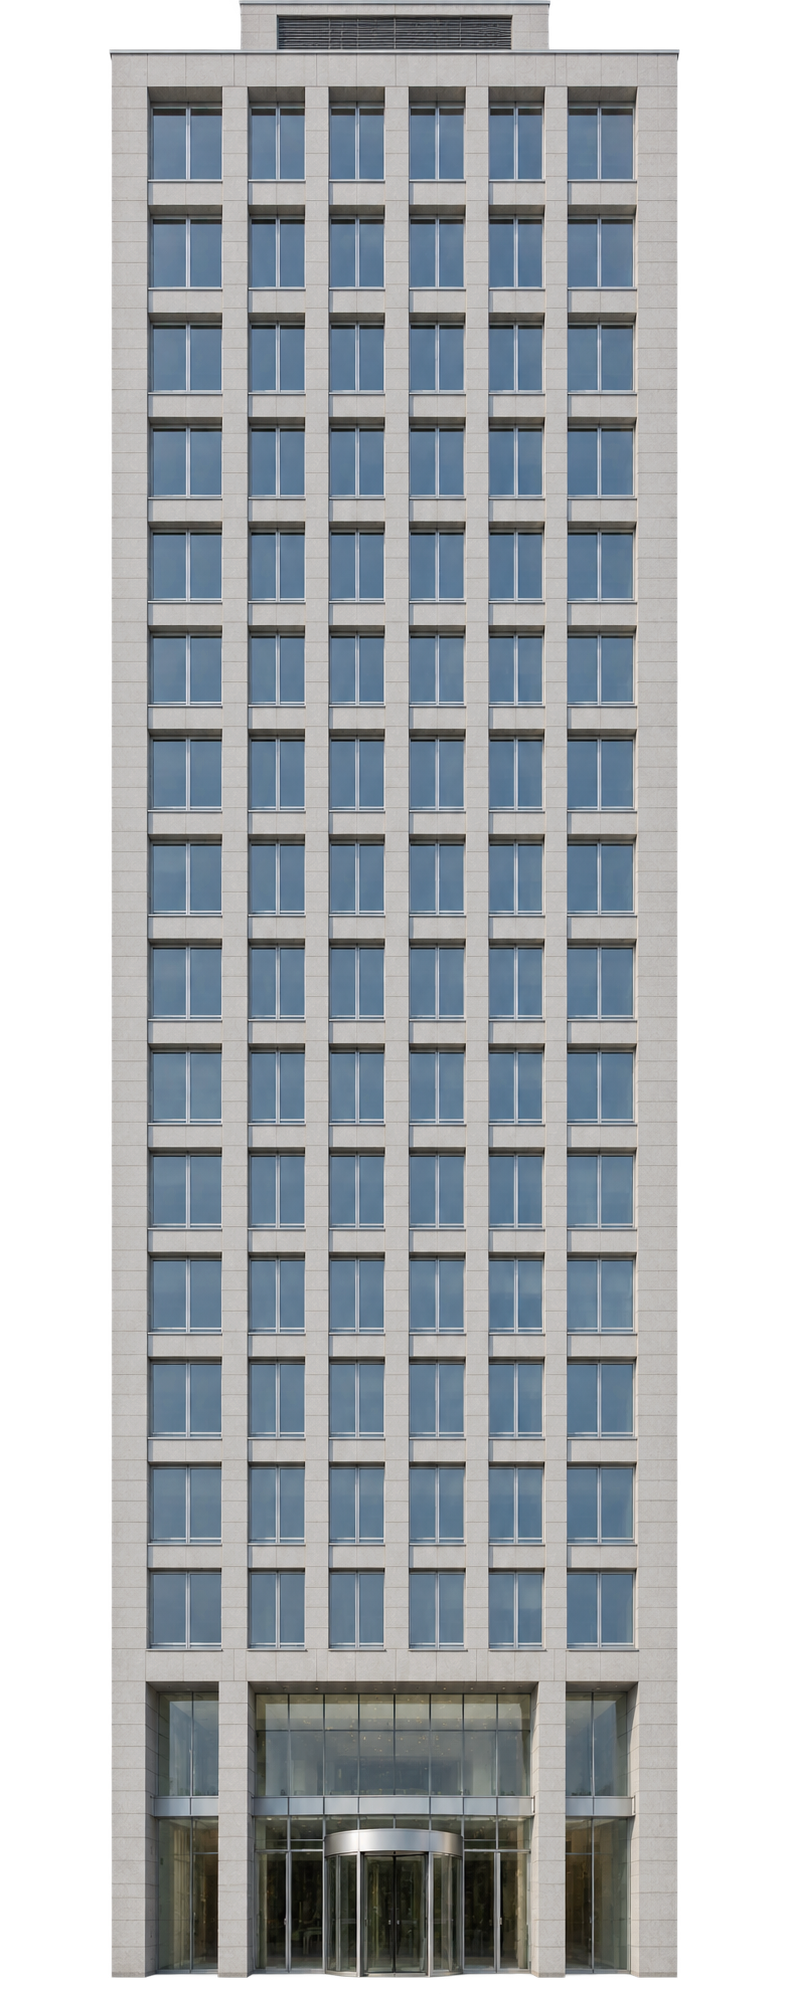
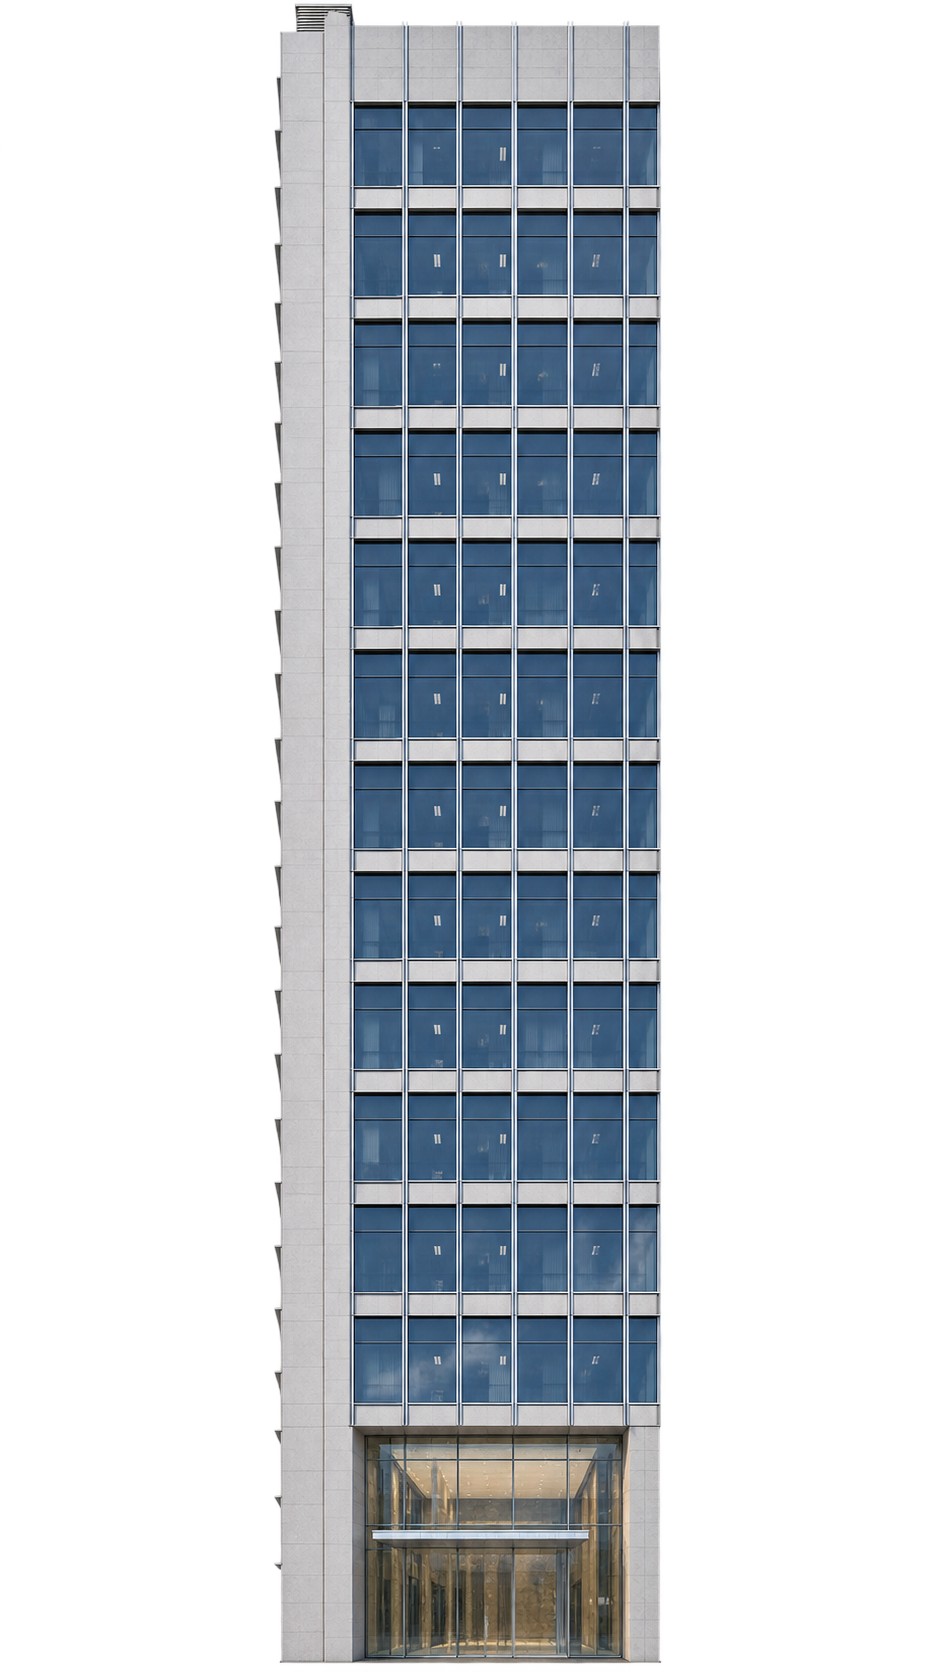
算命攤桌子定案 + 周邊裝飾(火把/大樹/灌木/盆栽/機車)。
kc 拉滑桿定案桌寬 3.45/桌深 2.95/桌高 2.20,寫進 FORTUNE_STALL 預設值,
神棍站位(FORTUNE.z)跟著新桌深重算,不會卡進桌子。kc:「附近能不能多加
一些裝飾,火把或啥的裝神弄鬼,也可以放一些大樹植物機車都可以」——加了
兩支發光火把(新道具)+ buildTree/bushLine/addProp/parkMoto 呼叫既有
函式湊出角落的樹/灌木/盆栽/機車,沒有新蓋系統。純視覺,玩法/劇情沒動。

Claude-Session: https://claude.ai/code/session_0178r68aH2gnAjBGiLuzEchG

diff --git a/prototypes/lib/scene-city3d.js b/prototypes/lib/scene-city3d.js
@@ -1133,7 +1133,7 @@ export function buildCity(THREE, scene){
     const TOWERS = [
       { x:-58, w:18, file:'office-tower-1.png', color:0x8a97a0 },   // 西側,學校西邊到街區邊界那段——深藍灰玻璃帷幕。側面(整棟樓風格)還沒生,先素色佔位
       { x:-16, w:14, file:'office-tower-2.png', sideFile:'office-tower-2-side.png?v=2', color:0xb08858 },   // 學校跟火車站中間,只有 16 寬的窄縫,樓也窄一點——古銅色帷幕,側面 v2(2026-08-26,kc:「他是大樓二」,原本以為 v2 那張是大樓一,修正)
-      { x:28,  w:18, file:'office-tower-3.png', sideFile:'office-tower-3-side.png', color:0xc8c4ba }    // 火車站跟小美哥站位(x≈48)中間——淺灰石材,正面圖還沒生,先素色佔位,側面已經有
+      { x:28,  w:18, file:'office-tower-3.png', sideFile:'office-tower-3-side.png', color:0xc8c4ba }    // 火車站跟小美哥站位(x≈48)中間——淺灰石材,正面圖 2026-08-27 補上(kc 拿側面圖當參考生的,樓層對齊)
     ];
     TOWERS.forEach(cfg => {
       const h = 50, w = cfg.w, d = DEPTH;
@@ -2072,7 +2072,9 @@ export function buildCity(THREE, scene){
      再猜一輪,直接把尺寸(w/d/legH)暴露給 game.html 的滑桿面板即時改,
      kc 自己拉到滿意為止。整組(桌面+四腳+籤筒+籤)重蓋比另外算縮放/
      位移代數簡單,一律先清掉舊 mesh 再照最新尺寸重畫一次。 */
-  const FORTUNE_STALL = { x:-50, z:-96, w:1.8, d:1.0, legH:1.5 };
+  /* 最終尺寸(2026-08-27)——kc 自己拉滑桿拉到桌寬 3.45/桌深 2.95/桌高
+     2.20 定案,寫死進預設值,滑桿還留著(方便之後想再調)。 */
+  const FORTUNE_STALL = { x:-50, z:-96, w:3.45, d:2.95, legH:2.2 };
   const fortuneStallCollider = { x:FORTUNE_STALL.x, z:FORTUNE_STALL.z, hw:1.0, hd:1.6 };
   colliders.push(fortuneStallCollider);
   landmarks.push({ x:FORTUNE_STALL.x, y:FORTUNE_STALL.legH+.6, z:FORTUNE_STALL.z, text:'算命攤' });
@@ -2102,6 +2104,26 @@ export function buildCity(THREE, scene){
     fortuneStallCollider.hd = d/2 + 1.1;
   }
   buildFortuneStall();
+  /* 算命攤周邊裝飾(2026-08-27,kc:「附近能不能多加一些裝飾,火把或啥的
+     裝神弄鬼,也可以放一些大樹植物機車都可以」)——火把是新的簡單發光
+     道具(木桿+發光多面體火焰,跟供桌香爐那顆發光小方塊同一招,不用
+     找素材);大樹/灌木/盆栽/機車全部直接呼叫既有函式(buildTree/
+     bushLine/addProp/parkMoto),沒有另外蓋系統。位置貼著西牆那一側,
+     圍出「算命攤自己的角落」,跟鴨頭/乾麵那排的熱鬧感區隔開。 */
+  function mysticTorch(x, z){
+    add(new THREE.Mesh(new THREE.CylinderGeometry(.05,.07,1.8,8),
+        std({ color:0x3a2a1a, roughness:.9 })), x, .9, z, true, false);
+    add(new THREE.Mesh(new THREE.IcosahedronGeometry(.22,0),
+        glow(0xff7a2a,1.8)), x, 1.95, z, false, false);
+    lampSpots.push({ x, y:2.0, z, c:0xff8a3a, i:20, r:14 });
+  }
+  [[-52.3,-95.3],[-47.7,-95.3]].forEach(([tx,tz]) => mysticTorch(tx,tz));
+  buildTree(-57, -99, 1.4, 2);
+  bushLine(-59, -91, -59, -104);
+  addProp('planter', -47, -99.5, 1.0, 1.3, 0x3c5a2e);
+  /* 機車(parkMoto)要等下面 `const motos = []` 先跑過(TDZ,const 不像
+     function 宣告會被 hoist),這裡先留呼叫點的位置註解,實際呼叫挪到
+     那個陣列宣告後面(見下面「算命攤機車」那行)。 */
   function tableSet(x, z){
     add(box(2.6,.16,2.6, M.plastic), x, 1.5, z);
     [[-1,-1],[1,-1],[1,1],[-1,1]].forEach(([a,b]) => add(box(.14,1.5,.14, M.plastic), x+a*1.05, .75, z+b*1.05));
@@ -2338,6 +2360,9 @@ export function buildCity(THREE, scene){
     [3,-13],[9,-13],[21,-13],[27,-13],
     [3,13],[9,13]
   ].forEach(([x,z], i) => parkMoto(x, z, i, x === 3 && z === -13));
+  /* 算命攤機車(2026-08-27,kc:「也可以放一些...機車都可以」)——停在
+     角落附近,靠西牆那側,不算進上面「機車行門口」那批的清點。 */
+  parkMoto(-56, -90, 6, false);
 
   /* 電線杆 + 路燈 */
   H_ROADS.forEach(r => {

diff --git a/prototypes/game.html b/prototypes/game.html
@@ -1166,11 +1166,14 @@ const MOTOBOSS = { x:-1, z:-13.2, visits:0, seenEvents:{}, newsConfronted:false 
 const ACHENG = { x:-13, z:-93.5, visits:0, seenEvents:{}, litterQuest:{ active:false, taskDone:false, done:false, picked:0, need:3 } };
 /* 算命攤・神棍(2026-08-27,kc:「角落一點,而且他就是一個桌子上面放簽筒
    然後要有個神棍去顧攤」)——座標對齊 scene-city3d.js 那張桌子(x:-50,
-   z:-96),站在桌子北側(z 再往北推 1.6,跟 AYI/ACHENG 站在攤子後方同一個
-   偏移量),面向南邊(玩家從廟埕開闊處走過來那側)。**只放外觀,沒有
-   talk[]/events[] 互動資料**——DESIGN_NOTES「待辦:廟口算命擺攤」還在
-   卡標題階段,kc 交代不要腦補內容,這裡先不接對話。 */
-const FORTUNE = { x:-50, z:-97.6 };
+   z:-96),站在桌子北側,面向南邊(玩家從廟埕開闊處走過來那側)。**只放
+   外觀,沒有 talk[]/events[] 互動資料**——DESIGN_NOTES「待辦:廟口算命
+   擺攤」還在卡標題階段,kc 交代不要腦補內容,這裡先不接對話。
+   z 偏移量(2026-08-27 第二輪,kc 拉桌子滑桿定案桌深 2.95 之後):原本
+   -1.6 是配第一版小桌子(桌深 1.0)算的,桌深變大之後站位會卡進桌子裡,
+   改成「桌深一半 + 0.6 淨空」(跟 scene-city3d.js fortuneStallCollider
+   的 hd = d/2+1.1 同一個量級抓的,人站的位置本來就要在那個碰撞範圍內)。 */
+const FORTUNE = { x:-50, z:-96 - (2.95/2 + .6) };
 
 /* 阿源好朋友門檻(2026-08-20,kc:「他會叫你去刺青並且帶女朋友來,帥潮
    >30 他才會跟你當好朋友,跟學校女生交往也會加值」)——跟阿姨/阿成不同,

diff --git a/docs/DESIGN_NOTES.md b/docs/DESIGN_NOTES.md
@@ -4177,3 +4177,19 @@ kc 原話:「明天做廟口算命擺攤」。目前還沒討論具體玩法,先
 上衣示意神秘感,跟其他攤販的居家色系(阿姨咖啡、阿成墨綠)區隔開。
 **只有外觀,沒有 talk[]/events[] 互動資料**——上面那條「不要腦補」原則
 還有效,玩法/劇情這輪完全沒有動。
+
+**桌子尺寸滑桿+定案(2026-08-27,同一天)**——kc:「桌子太小啊,讓我
+調整」,加了 `__dbg.tweakFortuneStall()` 面板(桌寬/桌深/桌高三條滑桿,
+跟 `tweakStall()` 遮雨簾滑桿同一招,整組重蓋不算縮放代數),kc 自己拉到
+桌寬 3.45/桌深 2.95/桌高 2.20 定案,寫進 `FORTUNE_STALL` 預設值(滑桿
+留著沒拆,還能再調)。桌子變大之後 `FORTUNE`(神棍站位)的 z 偏移量
+跟著從桌深 1.0 時代的固定 -1.6 改成算式(`桌深/2 + 0.6`),不然人會卡進
+新桌子裡。
+
+**周邊裝飾(2026-08-27,同一天)**——kc:「附近能不能多加一些裝飾,火把
+或啥的裝神弄鬼,也可以放一些大樹植物機車都可以」。加了:兩支火把(新的
+簡單發光道具,木桿+發光多面體火焰,flanking 桌子前緣,泛出一小灘暖
+橘色光)、一棵大樹(`buildTree`,靠西牆)、一排灌木(`bushLine`,沿西牆
+內側)、一盆栽(`addProp('planter',...)`)、一台停在角落的機車
+(`parkMoto`)。全部呼叫既有函式,沒有新蓋系統;只有火把是這輪新寫的
+小道具。玩法/劇情依然沒有動,這輪純視覺。
